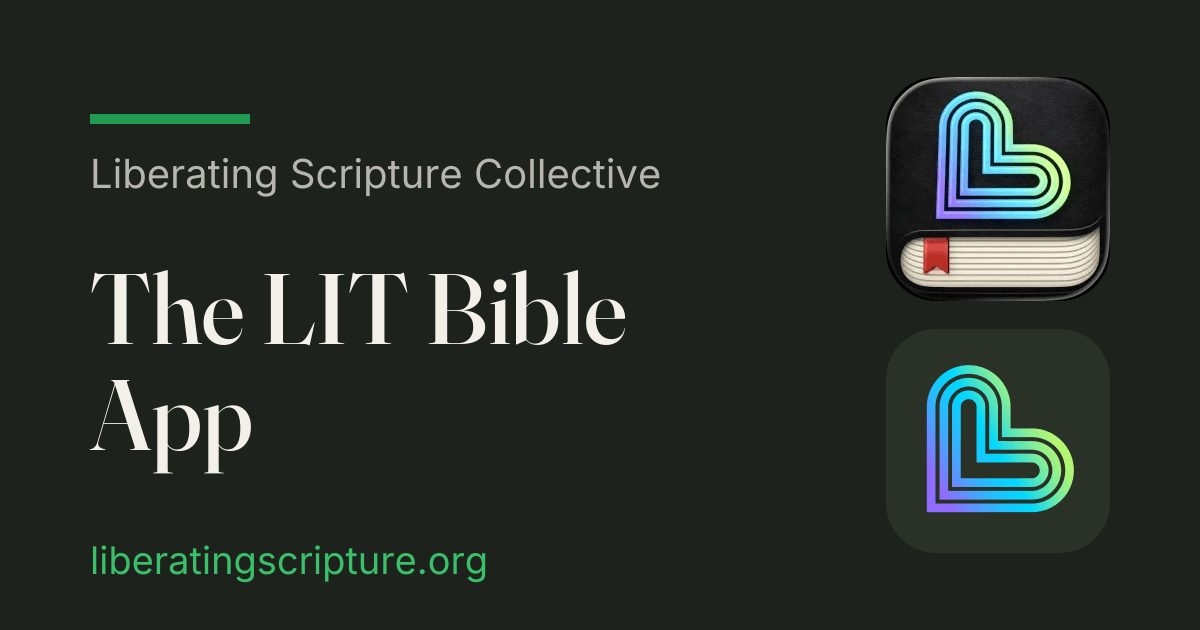
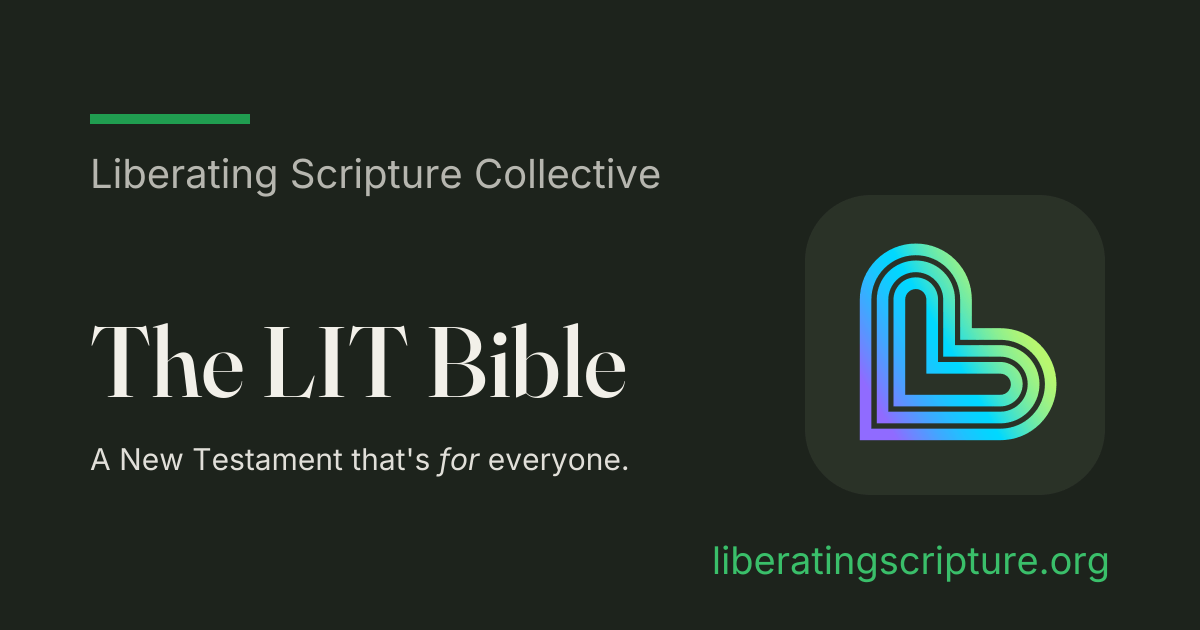
fix(og): apps card back to Android-only, plus the site's own tagline
Reverts the /apps share card's icon art to just the Android gradient mark
(owner decision) — the popover and /apps page's in-page icon pair are
unaffected, only this card. Single icon now reads centered, matching the
lit-bible card's layout, rather than the retired two-icon stacked column.

Also gives the card a tagline: the site's own hero line, "A New Testament
that's for everyone." — "for" renders in Inter Italic (added
inter-400italic.ttf, same subset as inter-400.ttf, both copied from the
sibling litbible repo where this pairing was built first) rather than
switching fonts mid-sentence. inter-400.ttf also picks up an apostrophe it
didn't carry before, needed for "that's".

Title shortened from "The LIT Bible App" to "The LIT Bible" so it stays on
one line and doesn't collide with the new tagline underneath.

diff --git a/scripts/og/fonts/README.md b/scripts/og/fonts/README.md
@@ -7,18 +7,24 @@ network access — same rendering on every machine.
 | File | Family | Source |
 |------|--------|--------|
 | `fraunces-opsz144-500.ttf` | Fraunces, weight 500, optical size 144 (display cut) | Google Fonts static instance of the Fraunces variable font |
-| `inter-400.ttf` | Inter, weight 400, subset to `A-Z a-z 0-9 & . space` | Google Fonts (`text=` subset) |
+| `inter-400.ttf` | Inter, weight 400, subset to `A-Z a-z 0-9 & . ' space` | Google Fonts (`text=` subset) |
+| `inter-400italic.ttf` | Inter, weight 400, *italic*, same subset as `inter-400.ttf` | Google Fonts (`text=` subset) |
 
-The Inter file is character-subsetted on purpose: the full Inter TTF carries
-GSUB lookups opentype.js can't parse, and the card strings it renders (the
-wordmark line and `liberatingscripture.org`) only need this charset. If a card
-ever needs new Inter characters, re-download with a wider `text=` parameter.
+The Inter files are character-subsetted on purpose: the full Inter TTF
+carries GSUB lookups opentype.js can't parse, and the card strings they
+render (the wordmark line, `liberatingscripture.org`, and the apps card's
+tagline) only need this charset. The italic exists for one word — the apps
+card's tagline emphasizes "for" — rendered as a separate `textPath` call in
+`inter-400italic.ttf` rather than switching the whole line to Fraunces. If a
+card ever needs new Inter characters, re-download with a wider `text=`
+parameter (both files, if the new character is ever emphasized too).
 
 These are deliberately NOT the `@fontsource` files the website itself uses:
 the site ships woff2 text-cut instances, while the share cards need the
 Fraunces display cut (opsz 144) at poster sizes, in a TTF container that
-opentype.js can parse. Both files are copied verbatim from the sibling
-litbible repo's `scripts/og/fonts/`.
+opentype.js can parse. All three files are copied verbatim from the sibling
+litbible repo's `scripts/og/fonts/` (see that copy's README for the
+re-subsetting recipe).
 
 Both families are licensed under the SIL Open Font License 1.1 — see
 `OFL.txt` in this directory.
